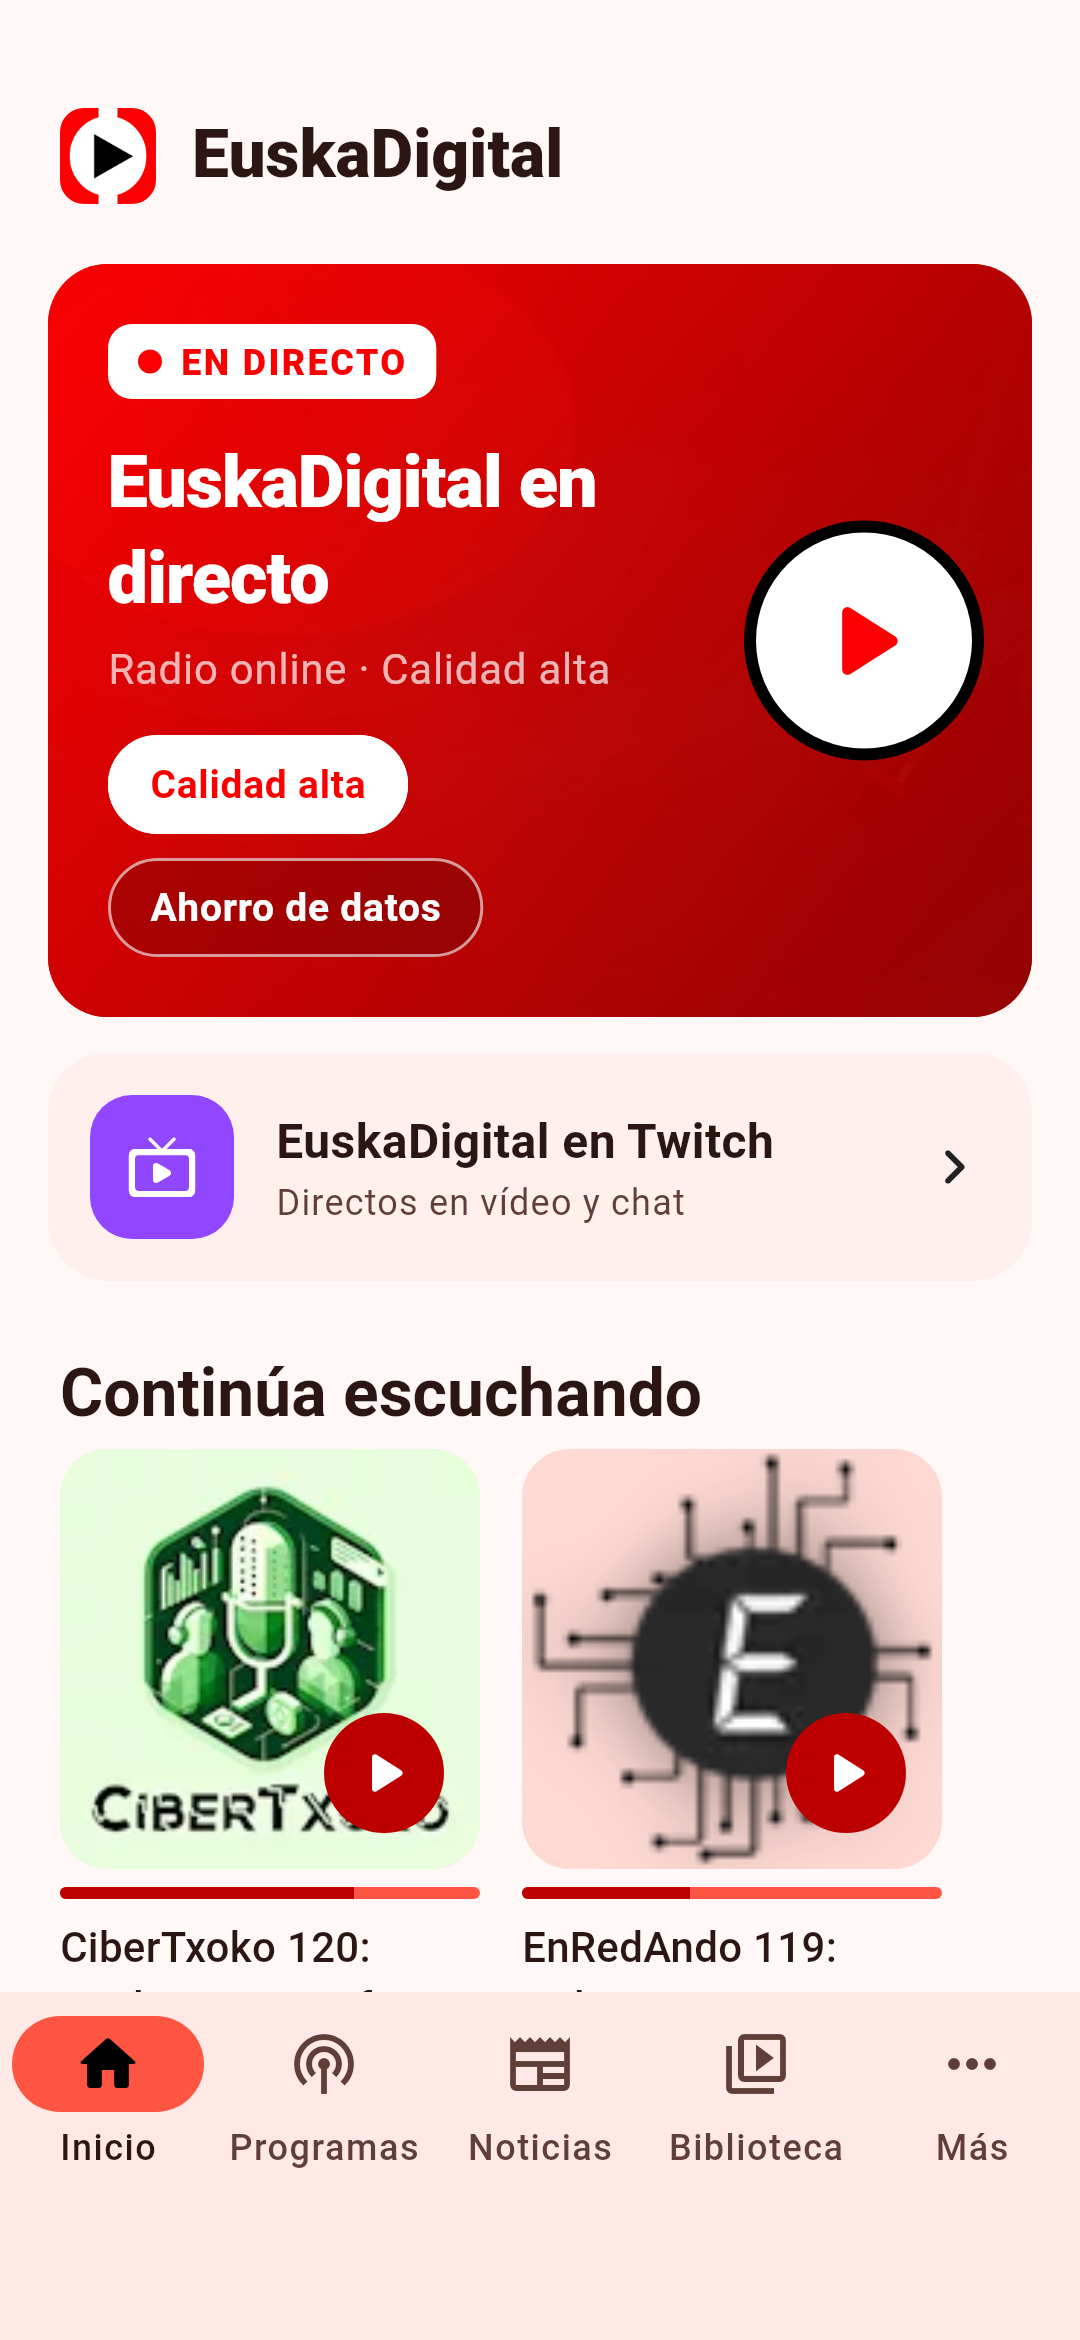
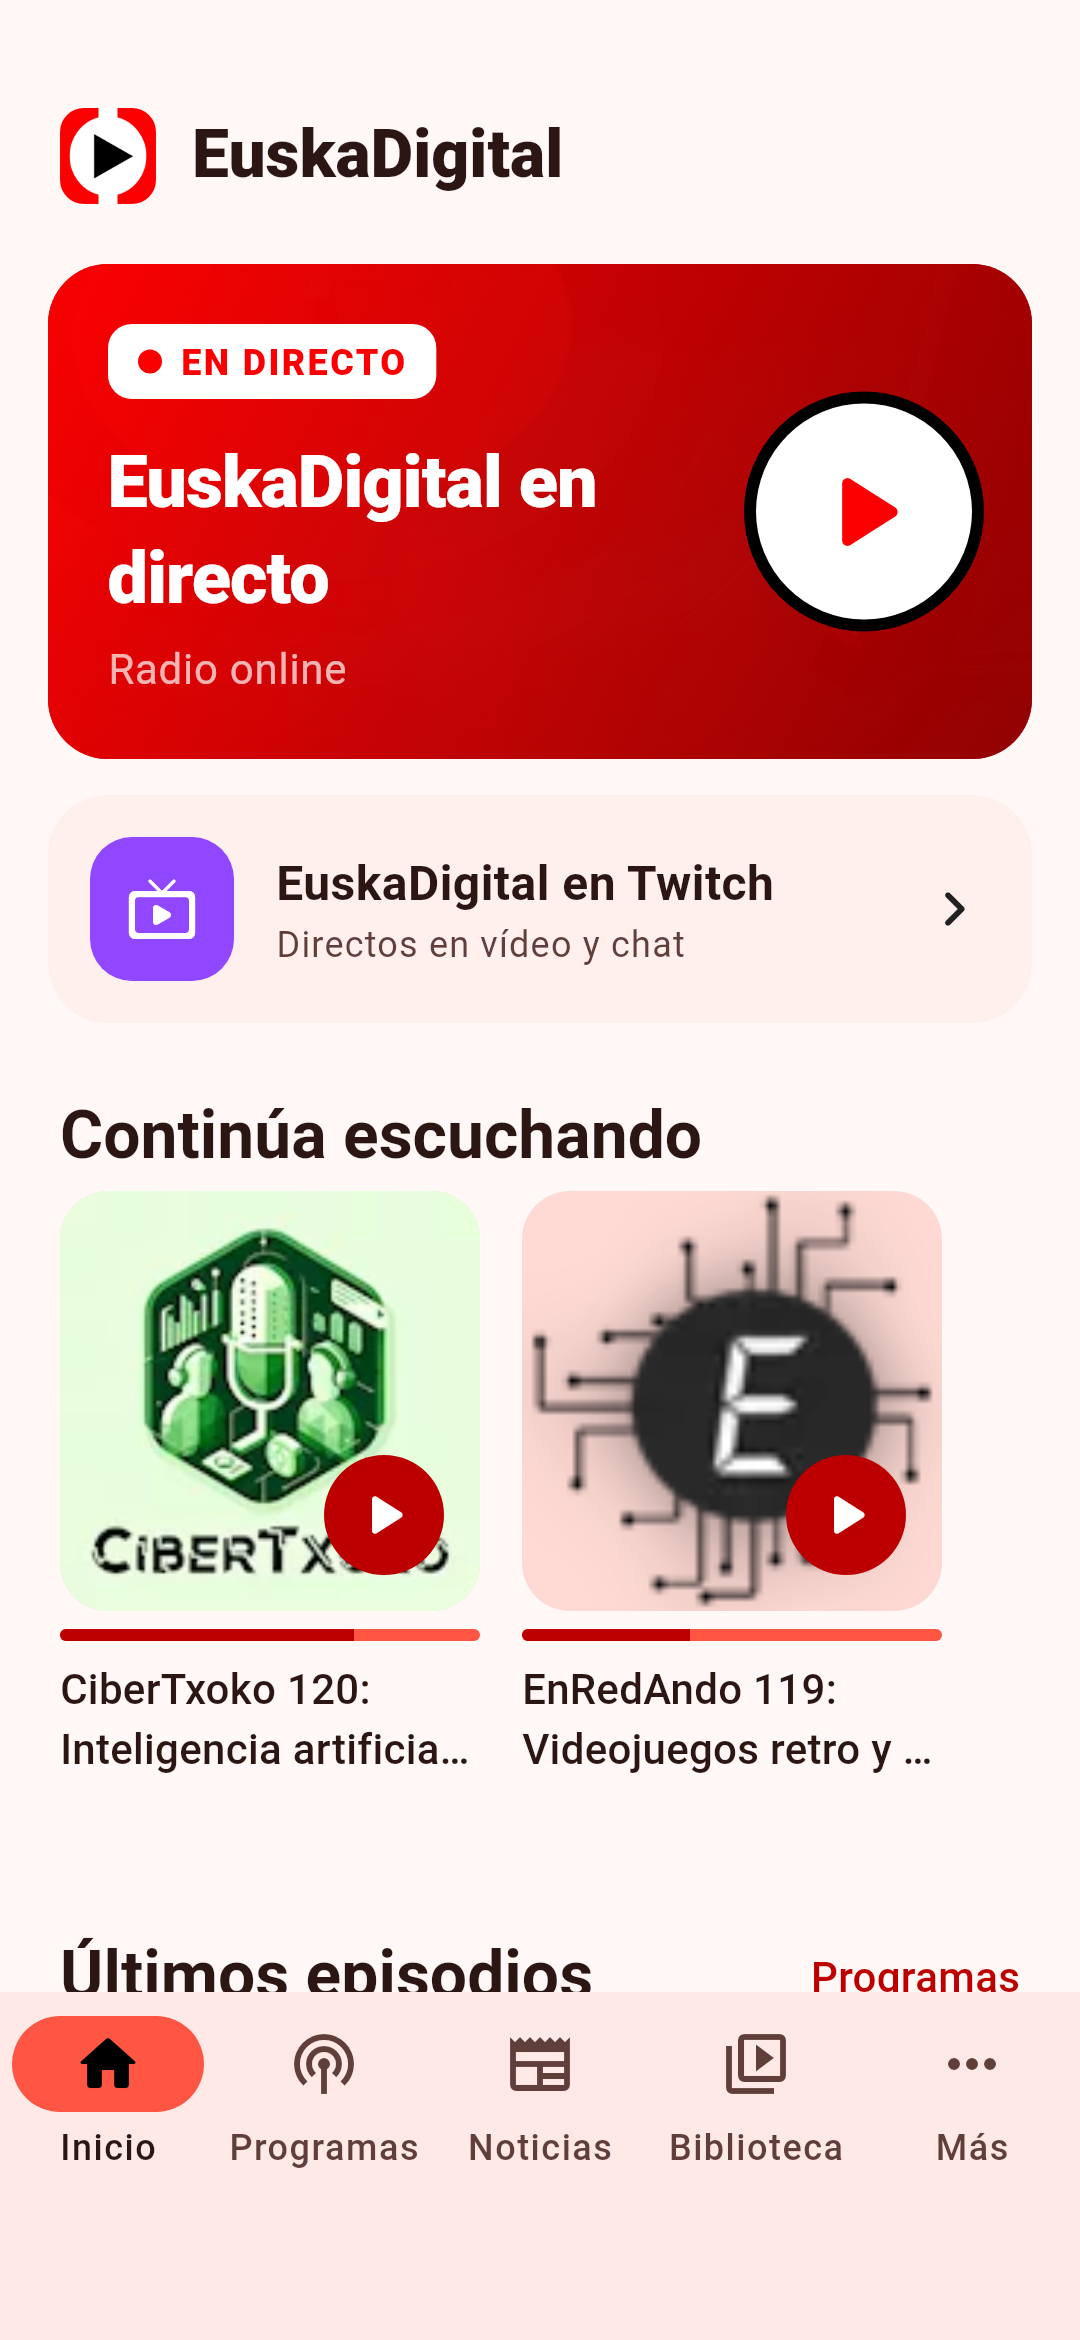
Directo sin selector de calidad
Un solo botón de directo: usa el stream principal y, si no responde,
pasa automáticamente al de respaldo. Se quita la opción de los ajustes
y las pastillas de la tarjeta, que queda más compacta.

Claude-Session: https://claude.ai/code/session_016dLWWhA75jkREqA1LiHKKV

diff --git a/lib/ui/widgets/live_card.dart b/lib/ui/widgets/live_card.dart
@@ -3,7 +3,6 @@ import 'package:provider/provider.dart';
 
 import '../../config/app_config.dart';
 import '../../services/player_service.dart';
-import '../../services/settings_store.dart';
 import '../theme.dart';
 
 /// Tarjeta destacada del directo con botón grande de reproducir.
@@ -14,10 +13,8 @@ class LiveCard extends StatelessWidget {
   Widget build(BuildContext context) {
     final live = context.read<AppConfig>().live;
     final player = context.watch<PlayerService>();
-    final settings = context.watch<SettingsStore>();
     final active = player.isLiveActive;
     final playing = active && player.playing;
-    final stream = live.streamById(settings.liveStreamId);
     final theme = Theme.of(context);
 
     return Padding(
@@ -59,11 +56,9 @@ class LiveCard extends StatelessWidget {
                               style: theme.textTheme.headlineSmall?.copyWith(color: Colors.white)),
                           const SizedBox(height: 4),
                           Text(
-                            playing ? 'Sonando ahora · ${stream.label}' : '${live.subtitle} · ${stream.label}',
+                            playing ? 'Sonando ahora' : live.subtitle,
                             style: theme.textTheme.bodyMedium?.copyWith(color: Colors.white70),
                           ),
-                          const SizedBox(height: 12),
-                          _QualityChips(live: live, selected: stream.id),
                         ],
                       ),
                     ),
@@ -105,69 +100,6 @@ class _BigPlay extends StatelessWidget {
                     child: CircularProgressIndicator(strokeWidth: 3, color: brandRed),
                   )
                 : Icon(playing ? Icons.pause_rounded : Icons.play_arrow_rounded, size: 44, color: brandRed),
-          ),
-        ),
-      ),
-    );
-  }
-}
-
-class _QualityChips extends StatelessWidget {
-  const _QualityChips({required this.live, required this.selected});
-  final LiveConfig live;
-  final String selected;
-
-  @override
-  Widget build(BuildContext context) {
-    return Wrap(
-      spacing: 8,
-      runSpacing: 8,
-      children: [
-        for (final s in live.streams)
-          _Pill(
-            label: s.label,
-            selected: s.id == selected,
-            onTap: () {
-              final player = context.read<PlayerService>();
-              context.read<SettingsStore>().liveStreamId = s.id;
-              if (player.isLiveActive) player.playLive(streamId: s.id);
-            },
-          ),
-      ],
-    );
-  }
-}
-
-/// Pastilla blanca sobre el fondo rojo de la tarjeta.
-class _Pill extends StatelessWidget {
-  const _Pill({required this.label, required this.selected, required this.onTap});
-  final String label;
-  final bool selected;
-  final VoidCallback onTap;
-
-  @override
-  Widget build(BuildContext context) {
-    return Semantics(
-      selected: selected,
-      button: true,
-      child: Material(
-        color: selected ? Colors.white : Colors.black.withValues(alpha: 0.18),
-        shape: StadiumBorder(
-          side: BorderSide(color: Colors.white.withValues(alpha: selected ? 1 : 0.6)),
-        ),
-        child: InkWell(
-          customBorder: const StadiumBorder(),
-          onTap: onTap,
-          child: Padding(
-            padding: const EdgeInsets.symmetric(horizontal: 14, vertical: 7),
-            child: Text(
-              label,
-              style: TextStyle(
-                color: selected ? brandRed : Colors.white,
-                fontWeight: FontWeight.w600,
-                fontSize: 13,
-              ),
-            ),
           ),
         ),
       ),

diff --git a/lib/services/player_service.dart b/lib/services/player_service.dart
@@ -146,31 +146,35 @@ class PlayerService extends ChangeNotifier {
 
   // ---------------------------------------------------------------- directo
 
-  Future<void> playLive({String? streamId}) async {
+  /// Reproduce el directo. Usa el primer stream de la configuración y, si
+  /// no responde, prueba automáticamente los siguientes (respaldo).
+  Future<void> playLive({bool restart = false}) async {
     final live = _config.live;
-    final stream = live.streamById(streamId ?? _settings.liveStreamId);
-    if (isLiveActive && streamId == null) return togglePlay();
+    if (isLiveActive && !restart) return togglePlay();
     _saveCurrentProgress(force: true);
     _current = NowPlaying(
       id: liveId,
       title: live.title,
-      subtitle: '${live.subtitle} · ${stream.label}',
+      subtitle: live.subtitle,
       fallbackImage: 'assets/branding/logo.png',
     );
     _error = null;
     notifyListeners();
-    try {
-      await _player.setAudioSource(AudioSource.uri(
-        Uri.parse(stream.url),
-        tag: MediaItem(id: liveId, title: live.title, album: live.subtitle, artist: 'EuskaDigital'),
-      ));
-      await _player.setSpeed(1);
-      unawaited(_player.play());
-    } catch (err) {
-      debugPrint('Error en directo: $err');
-      _error = 'El directo no está disponible ahora mismo.';
-      notifyListeners();
+    for (final stream in live.streams) {
+      try {
+        await _player.setAudioSource(AudioSource.uri(
+          Uri.parse(stream.url),
+          tag: MediaItem(id: liveId, title: live.title, album: live.subtitle, artist: 'EuskaDigital'),
+        ));
+        await _player.setSpeed(1);
+        unawaited(_player.play());
+        return;
+      } catch (err) {
+        debugPrint('Stream ${stream.id} no disponible: $err');
+      }
     }
+    _error = 'El directo no está disponible ahora mismo.';
+    notifyListeners();
   }
 
   // --------------------------------------------------------------- control
@@ -185,7 +189,7 @@ class PlayerService extends ChangeNotifier {
       }
       if (isLiveActive) {
         // En directo, reanudar = volver al punto actual de la emisión.
-        await playLive(streamId: _settings.liveStreamId ?? _config.live.streams.first.id);
+        await playLive(restart: true);
         return;
       }
       unawaited(_player.play());

diff --git a/lib/ui/screens/settings_screen.dart b/lib/ui/screens/settings_screen.dart
@@ -1,7 +1,6 @@
 import 'package:flutter/material.dart';
 import 'package:provider/provider.dart';
 
-import '../../config/app_config.dart';
 import '../../services/download_manager.dart';
 import '../../services/library_store.dart';
 import '../../services/settings_store.dart';
@@ -21,7 +20,6 @@ class _SettingsScreenState extends State<SettingsScreen> {
   Widget build(BuildContext context) {
     final settings = context.watch<SettingsStore>();
     final lib = context.watch<LibraryStore>();
-    final live = context.read<AppConfig>().live;
     final theme = Theme.of(context);
 
     Widget header(String t) => Padding(
@@ -44,16 +42,6 @@ class _SettingsScreenState extends State<SettingsScreen> {
               ],
               selected: {settings.themeMode},
               onSelectionChanged: (s) => settings.themeMode = s.first,
-            ),
-          ),
-          header('Directo'),
-          RadioGroup<String>(
-            groupValue: live.streamById(settings.liveStreamId).id,
-            onChanged: (v) => settings.liveStreamId = v,
-            child: Column(
-              children: [
-                for (final s in live.streams) RadioListTile<String>(value: s.id, title: Text(s.label)),
-              ],
             ),
           ),
           header('Descargas'),

diff --git a/lib/services/settings_store.dart b/lib/services/settings_store.dart
@@ -20,17 +20,6 @@ class SettingsStore extends ChangeNotifier {
     notifyListeners();
   }
 
-  /// Calidad elegida para el directo (id del stream).
-  String? get liveStreamId => _prefs.getString('liveStreamId');
-  set liveStreamId(String? v) {
-    if (v == null) {
-      _prefs.remove('liveStreamId');
-    } else {
-      _prefs.setString('liveStreamId', v);
-    }
-    notifyListeners();
-  }
-
   double get playbackSpeed => _prefs.getDouble('playbackSpeed') ?? 1.0;
   set playbackSpeed(double v) {
     _prefs.setDouble('playbackSpeed', v);

diff --git a/lib/config/app_config.dart b/lib/config/app_config.dart
@@ -65,11 +65,9 @@ class LiveConfig {
 
   final String title;
   final String subtitle;
+  /// En orden de preferencia: el primero es el principal y el resto, respaldo.
   final List<LiveStream> streams;
   final String? offAirText;
-
-  LiveStream streamById(String? id) =>
-      streams.firstWhere((s) => s.id == id, orElse: () => streams.first);
 
   factory LiveConfig.fromJson(Map<String, dynamic> j) => LiveConfig(
         title: j['title'] as String,

diff --git a/test/screenshots/screenshots_test.dart b/test/screenshots/screenshots_test.dart
@@ -199,7 +199,7 @@ void main() {
     player.debugShow(NowPlaying(
       id: PlayerService.liveId,
       title: config.live.title,
-      subtitle: '${config.live.subtitle} · ${config.live.streams.first.label}',
+      subtitle: config.live.subtitle,
       fallbackImage: 'assets/branding/logo.png',
     ));
     await settle(tester);
